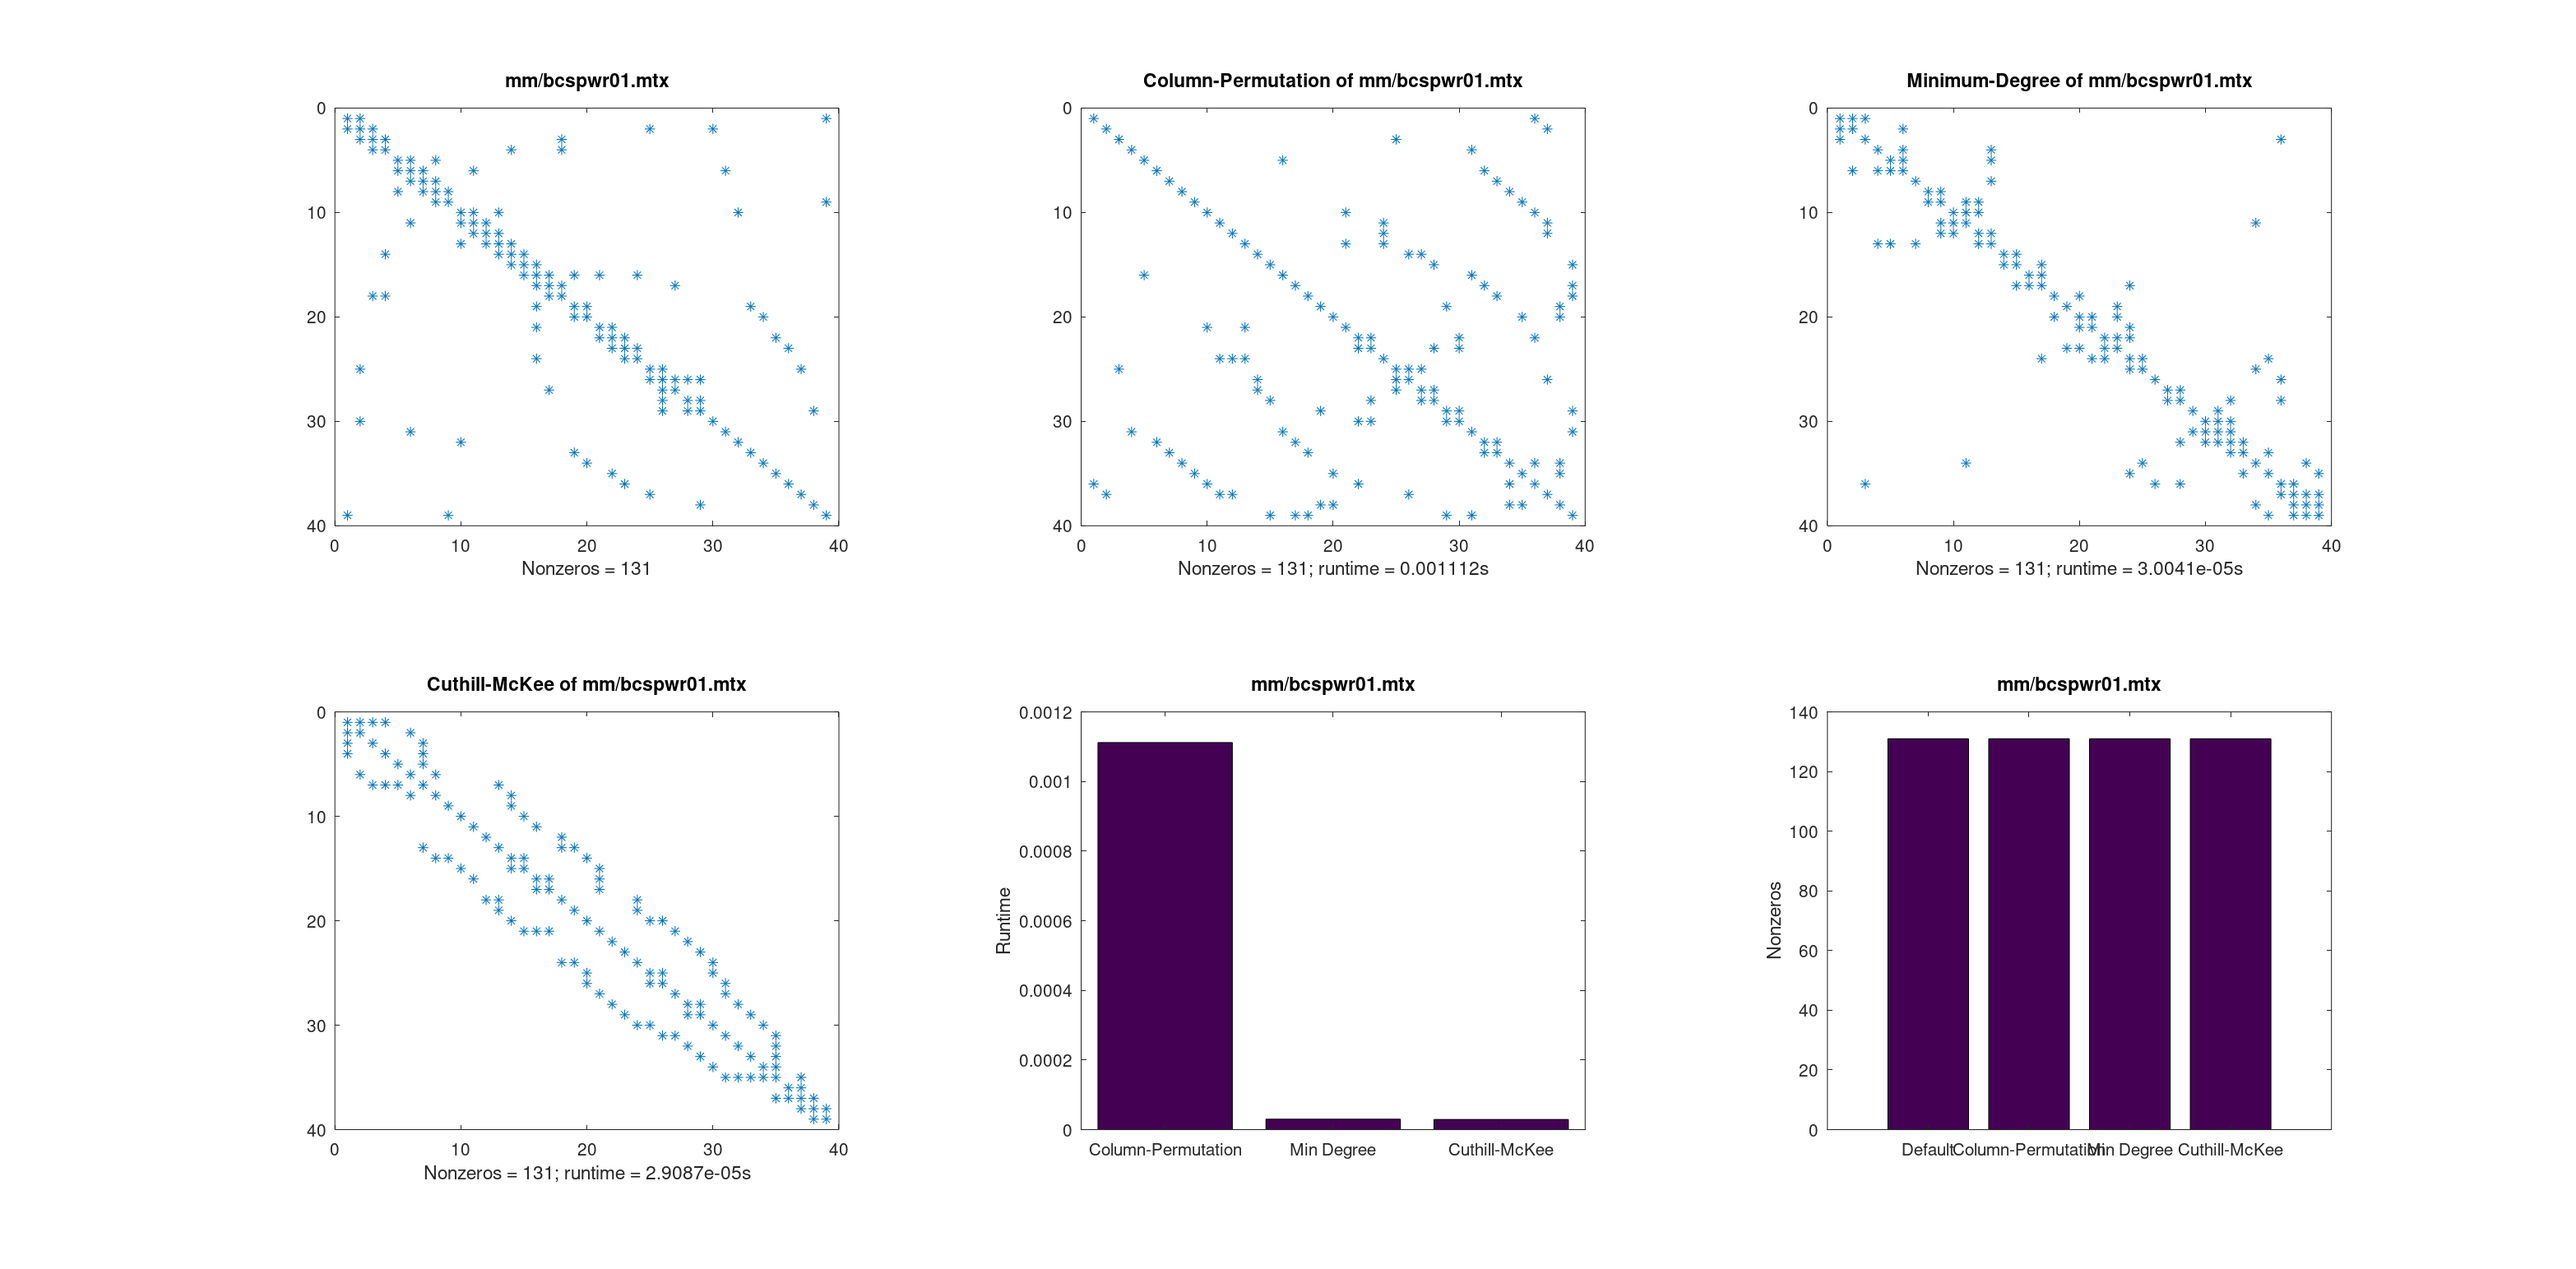
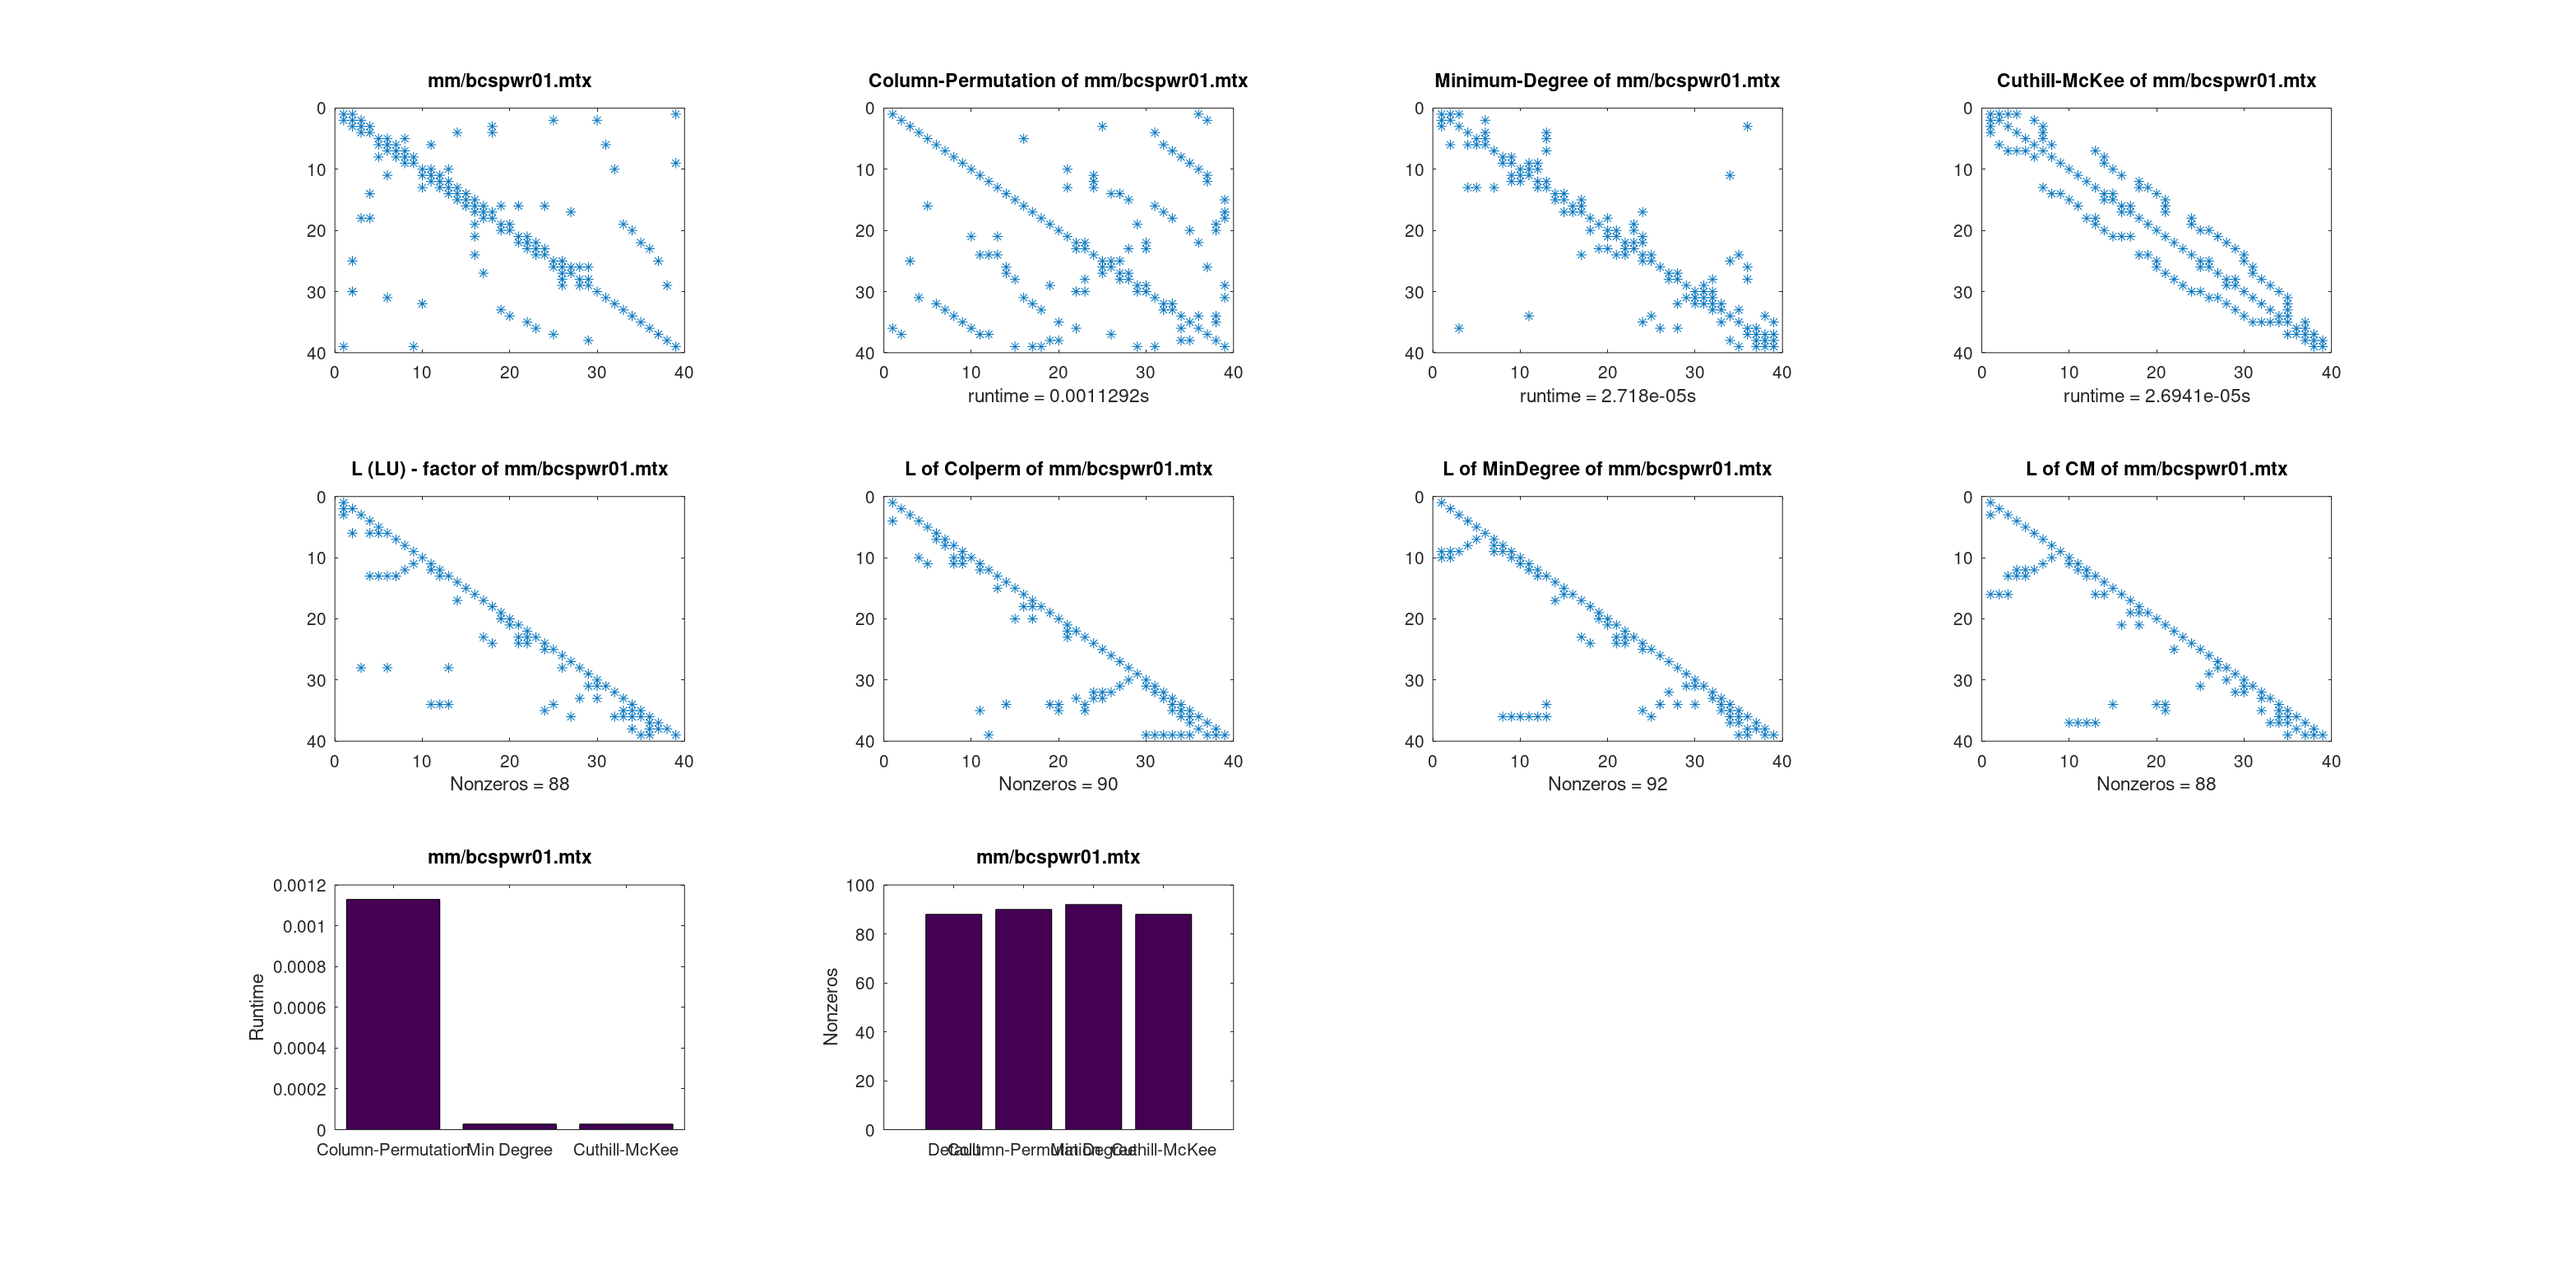
revised E61 - added LU factorization

diff --git a/5_lls/E61.m b/5_lls/E61.m
@@ -7,57 +7,79 @@ filename = "mm/jgl009.mtx" % small example
 disp(A);
 
 % E61(ii):
-filenames = ["mm/bcspwr01.mtx"; "mm/can___24.mtx"; "mm/fidapm05.mtx";
-            "mm/tols90.mtx"; "mm/qc324.mtx"; "mm/memplus.mtx"; "mm/saylr3.mtx"];
+filenames = ["mm/bcspwr01.mtx"; "mm/can___24.mtx"; "mm/fidapm05.mtx"; 
+"mm/tols90.mtx"; "mm/qc324.mtx"; "mm/memplus.mtx"; "mm/saylr3.mtx"];
+%
+plt_r = 3;
+plt_c = 4;
 for i=1:length(filenames)
   [rows, cols, entries, rep, field, symm] = mminfo(filenames(i,:));
   A = mmread(filenames(i,:));
-  nz(1) = nnz(A);
-  subplot(2,3,1);
+  [L,U,P,Q] = lu(A);
+  nz(1) = nnz(L);
+  subplot(plt_r,plt_c,1);
   spy(A);
   title(filenames(i,:));
+  subplot(plt_r,plt_c,5); #factor
+  spy(L);
   xlabel(["Nonzeros = ",num2str(nz(1))]);
-
+  title(['L (LU) - factor of ', filenames(i,:)])
+  
   % Column-Permutation:
   tic;
   r = colperm(A);
-  nz(2) = nnz(A(r,r));
   runtime(1) = toc;
-  subplot(2,3,2);
+  [L,U,P,Q] = lu(A(r,r));
+  nz(2) = nnz(L);
+  subplot(plt_r,plt_c,2);
   spy(A(r,r));
   title(['Column-Permutation of ', filenames(i,:)])
-  xlabel(["Nonzeros = ",num2str(nz(2)), "; runtime = ",num2str(runtime(1)),"s"]);
-
+  xlabel(["runtime = ",num2str(runtime(1)),"s"]);
+  subplot(plt_r,plt_c,6); #factor
+  spy(L);
+  xlabel(["Nonzeros = ",num2str(nz(2))]);
+  title(['L of Colperm of ', filenames(i,:)])
+  
   % Minimum-Degree:
   tic;
   r = amd(A);
   runtime(2) = toc;
-  nz(3) = nnz(A(r,r));
-  subplot(2,3,3);
+  [L,U,P,Q] = lu(A(r,r));
+  nz(3) = nnz(L);
+  subplot(plt_r,plt_c,3);
   spy(A(r,r));
   title(['Minimum-Degree of ', filenames(i,:)])
-  xlabel(["Nonzeros = ",num2str(nz(3)), "; runtime = ",num2str(runtime(2)),"s"]);
-
+  xlabel(["runtime = ",num2str(runtime(2)),"s"]);
+  subplot(plt_r,plt_c,7); #factor
+  spy(L);
+  xlabel(["Nonzeros = ",num2str(nz(3))]);
+  title(['L of MinDegree of ', filenames(i,:)])
+  
   % Cuthill-McKee:
   tic;
   r = symrcm(A);
   runtime(3) = toc;
-  nz(4) = nnz(A(r,r));
-  subplot(2,3,4);
+  [L,U,P,Q] = lu(A(r,r));
+  nz(4) = nnz(L);
+  subplot(plt_r,plt_c,4);
   spy(A(r,r));
   title(['Cuthill-McKee of ', filenames(i,:)])
-  xlabel(["Nonzeros = ",num2str(nz(4)), "; runtime = ",num2str(runtime(3)),"s"]);
-
+  xlabel(["runtime = ",num2str(runtime(3)),"s"]);
+  subplot(plt_r,plt_c,8); #factor
+  spy(L);
+  xlabel(["Nonzeros = ",num2str(nz(4))]);
+  title(['L of CM of ', filenames(i,:)])
+  
   %plot runtime
-  subplot(2,3,5);
+  subplot(plt_r,plt_c,9);
   labels = {'Column-Permutation', 'Min Degree', 'Cuthill-McKee'};
   bar(runtime);
   title(filenames(i,:));
   ylabel('Runtime');
   set(gca,'xticklabel',labels)
-  
+
   %plot nz
-  subplot(2,3,6);
+  subplot(plt_r,plt_c,10);
   labels = {'Default', 'Column-Permutation', 'Min Degree', 'Cuthill-McKee'};
   bar(nz);
   title(filenames(i,:));
